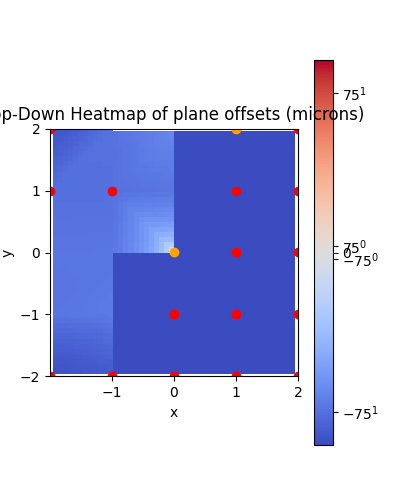
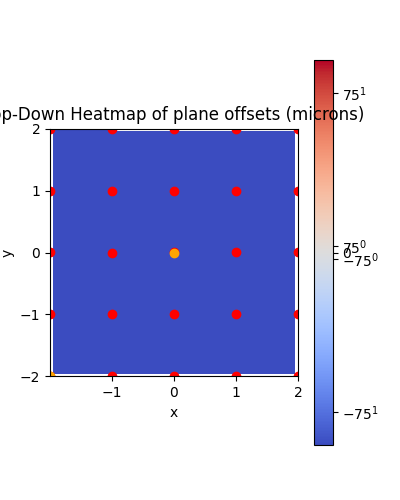
modified:   Stave 13-13_module 13 error analysis -defectmatrix/moduleLocation13/heatmap.png 	modified:   Stave 13-13_module 13 error analysis -defectmatrix/moduleLocation13/histogram.png 	modified:   Stave 13-13_module 13 error analysis -defectmatrix/moduleLocation13/offsets.csv 	modified:   Stave 1

Changed region(s): [[0.12, 0.24, 0.45, 0.72], [0.57, 0.24, 0.6, 0.27]]

diff --git a/analysis V2.py b/analysis V2.py
@@ -9,6 +9,8 @@ from skspatial.objects import Points, Plane
 from matplotlib.figure import Figure 
 from matplotlib.backends.backend_tkagg import FigureCanvasTkAgg, NavigationToolbar2Tk
 from matplotlib import cm, colors
+import re
+from itertools import compress
 
 #variable to immediately store filepath of currently open file
 global file
@@ -27,10 +29,7 @@ def browseFiles():
     file = filedialog.askopenfilename(initialdir = dirmemory, title = "Select a File", filetypes = (("Text files","*.txt*"),("all files","*.*")))
     
     #this is all to set the value of the file directory with a variable file name length
-    filerev = file[::-1]
-    index = filerev.find("/")
-    filerev = filerev[index:len(filerev)]
-    dirmemory = filerev[::-1]
+    dirmemory = os.path.dirname(file)
 
     #notification of action
     print("File explorer is open at location: " + dirmemory)
@@ -77,11 +76,7 @@ def readFile(file):
 
 #splits multi-module data file into multiple single-module data files.
 def splitFile(text, fileroot):
-    #finds filename by reversing the file path and cutting the string off at the first instance of /
-    reversal = fileroot[::-1]
-    nameIndex = reversal.find("/")
-    fileName = reversal[0:nameIndex]
-    fileName = fileName[::-1]
+    fileName = os.path.basename(fileroot)
     #print(fileName)
     
     #uses the filename to find what to number each single-module file
@@ -118,24 +113,12 @@ def splitFile(text, fileroot):
 
 #turns space-separated proprietary data in text file format into a Pandas dataframe
 def reformatString(text):
-    checker = ["+", "-", "0", "1", "2", "3", "4", "5", "6", "7", "8", "9", "."]
-
     #searches for numbers. Each number in the proprietary text format bgins with "+" or "-". 
-    res = [i for i in range(len(text)) if text.startswith(checker[0], i) or text.startswith(checker[1], i)]
-    nums = [text[i:i+10] for i in res]
+    nums = [text[i:i+10] for i in range(len(text)) if text.startswith("+", i) or text.startswith("-", i)]
 
-    #creates an array filled with the indices of any value that either doesn't have a decimal point in the correct location or contains non-numeric characters. 
-    toRemove = []
-    for i in range(len(nums)):
-        num = nums[i]
-        for j in range(len(num)):
-            if not num[j] in checker or not num[4:5] == ".":
-                toRemove.append(i)
-                #print(num)
-    
-    #removes all the thingies at the indices of incorrectly formatted values
-    for i in sorted(toRemove, reverse=True):
-        del nums[i]
+    mask = [i[4:5]=="." and re.sub("[-+.]", "", i).isnumeric() for i in nums]
+
+    nums = list(compress(nums, mask))
 
     #this bit separates the whole list of numbers into three lists of x,y,z values. 
     #since the original list goes down the line of the starting text format, we can know that the list of numbers goes in order: x,y,z,x,y,z,...
@@ -145,13 +128,11 @@ def reformatString(text):
 
     #this bit removes the 5 points at the beginning of every routine that are really close to the origin. 
     #also outputs a notification for these points being removed. 
-    removeIndices = [i for i in range(len(numsMod1)) if abs(float(numsMod1[i])) < 0.001]
+    removeIndices = [not abs(float(i)) < 0.001 for i in numsMod1]
     if not defect.get():
-        for i in sorted(removeIndices, reverse=True):
-            del numsMod0[i]
-            del numsMod1[i]
-            del numsMod2[i]
-            print("removed a bad point -- plane location out of range")
+        numsMod0 = list(compress(numsMod0, removeIndices))
+        numsMod1 = list(compress(numsMod1, removeIndices))
+        numsMod2 = list(compress(numsMod2, removeIndices))
 
     #this bit throws an error and exits the function if there is an unequal number of x,y,z values. 
     if not len(numsMod0) == len(numsMod1) == len(numsMod2):
@@ -175,22 +156,19 @@ def minimumZ_val(dataframe):
     z_vals = np.array(dataframe.iloc[:,2], dtype=float)
     z_med = np.median(z_vals)
 
-    #creates an array populated with "distance from median" values for each point, still with corresponding indices.
-    diffs = [z_med - i for i in z_vals]
-
     #array of indices at which the "distance from median" value is large and the z-value is below the median. 
     #in effect, an array of outlier indices.
-    removeindices = [i for i in range(len(diffs)) if diffs[i] > 0.25]
+    mask = [i for i in range(len(z_vals)) if abs(z_med - z_vals[i]) > 0.25]
 
     #notifies operator of each point deemed an outlier and removed and its associated "distance from median" value.
-    for i in removeindices:
-        print("removed! z-difference: " + str(diffs[i]))
+    for i in mask:
+        print("removed! z-difference: " + str(abs(z_med - z_vals[i])))
 
     #notifies operator if there are no outliers in dataset (no points removed).
-    if len(removeindices) == 0:
+    if len(mask) == 0:
         print("woah! no outliers to remove. \nmoving on...")
     
-    removed = dataframe.drop(index=removeindices)
+    removed = dataframe.drop(index=mask)
     return removed
 
 #its really, unironically that shrimple. 
@@ -206,11 +184,17 @@ def analyzeFile(plaintext, fileroot):
     print("getting data...")
     data = reformatString(plaintext)
 
+    #print(data)
+
+    #print("length of data before outliers: " + str(len(data)))
+
         #if the "remove outliers" box is checked, the data will be scanned for outliers and the outlier points will be removed. 
         #the exact process is of questionable validity, but it works. 
     if zMinimum.get():
         data = minimumZ_val(data)
     data = data.to_numpy(dtype=float)
+
+    #print("length of data after outliers: " + str(len(data)))
 
     #the code will then analyze the 3-d coordinates through sorting, visualization, and exporting.
     print("analyzing, doo de doo dooo~")
@@ -220,18 +204,14 @@ def analyzeFile(plaintext, fileroot):
     #https://scikit-spatial.readthedocs.io/en/stable/api_reference/Plane/methods/skspatial.objects.Plane.best_fit.html
     p = Points(data)
     if defect.get():
-        basePoint = []
-        checker = False
-        for i in data:
-            if abs(i[0]) < 0.001 and abs(i[1]) < 0.001:
-                basePoint = i
-                checker = True
-        if checker == False:
-            print("Central point error! Please make sure that you are inputting defect matrix data. ")
-            exit()
-        vec = ''.join(c for c in norm.get() if c.isdigit() or c==' ' or c=='.' or c=='e' or c=='-' or c=="+")
-        vector = vec.split()
-        vector = [float(i) for i in vector]
+        baseCandidates = [i for i in data if abs(i[0]) < 0.001 and abs(i[1]) < 0.001]
+        basePoint = baseCandidates[0]
+
+        nonDigitNumerical = [' ', '.', 'e', 'E', '-', '+']
+        normal = norm.get()[norm.get().find("["):]
+        vec = ''.join(c for c in normal if c.isdigit() or c in nonDigitNumerical)
+        vector = [float(i) for i in vec.split()]
+
         plane = Plane(point = basePoint, normal=vector)
     else:
         plane = Plane.best_fit(p)
@@ -382,43 +362,6 @@ def to_CSV_whileLoop(data, fileroot):
     #outwards notifications of the method finishing
     print("CSV data holds " + str(len(data)) + " points. ")
     print("CSV data saved to " + file + "\nnext...")
-
-#this does the same thing as to_CSV_whileLoop but using recursive functions. IMO the while loop version is a bit more elegant. 
-def to_CSV_recursive(data, fileroot):
-    file = fileroot + "/offsets.csv"
-
-    array = []
-    y_vals = data[:,1]
-    z_vals = data[:,2]
-    array = rowify(y_vals, z_vals, array)
-    np.transpose(array)
-
-    #converting the grid into saveable file format.
-    csv = pd.DataFrame(array)
-    csv.to_csv(file)
-
-    #outwards notifications of the method finishing
-    print("CSV data holds " + str(len(data)) + " points. ")
-    print("CSV data saved to " + file + "\nnext...")
-
-def rowify(y_vals, z_vals, array):
-    if min(y_vals) == y_vals[len(y_vals)-1]:
-        array.append(z_vals)
-        return array
-    row = []
-    temp, index = 1000, 0
-    while y_vals[index] < temp:
-        z_val = round(z_vals[index], 6)
-        if abs(z_val) > 75/1000:
-            z_val = 'ERROR: ' + str(z_val)
-        row.append(z_val)
-        temp = abs(y_vals[index])
-        index += 1
-    array.append(row)
-    rem_y = np.delete(y_vals, range(0,index))
-    rem_z = np.delete(z_vals, range(0,index))
-    array = rowify(rem_y, rem_z, array)
-    return array
 
 #creates a .txt file containing values useful for an overview of the stave.
 def text_label(data, plane, peakPoints, fileroot):
